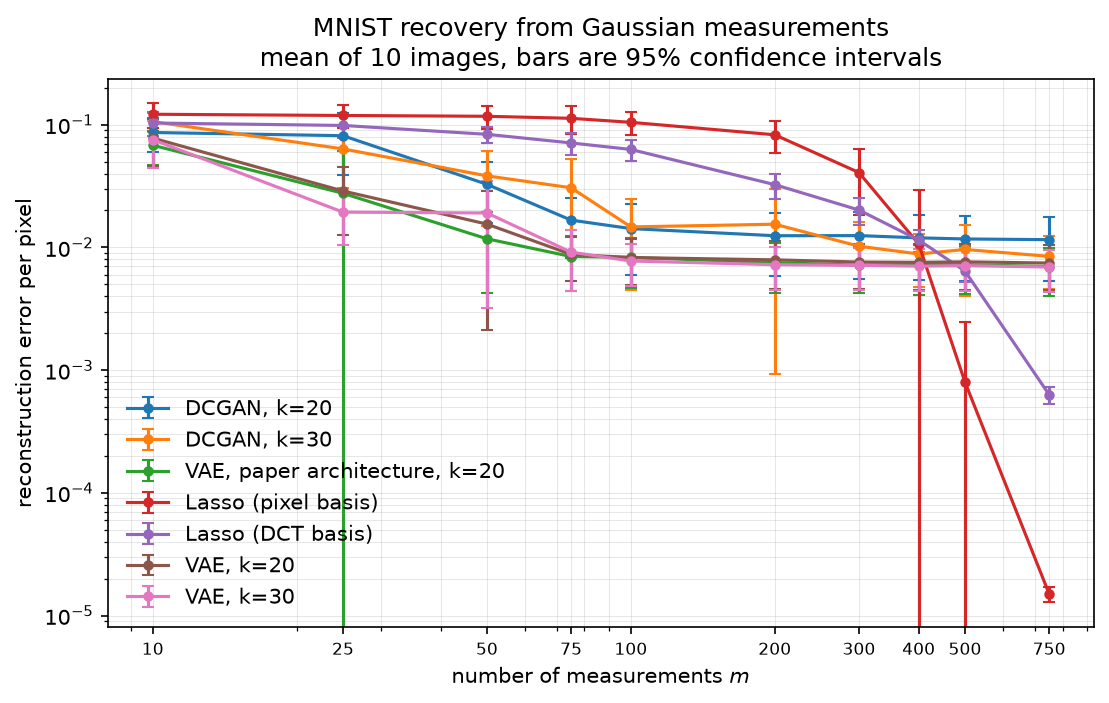
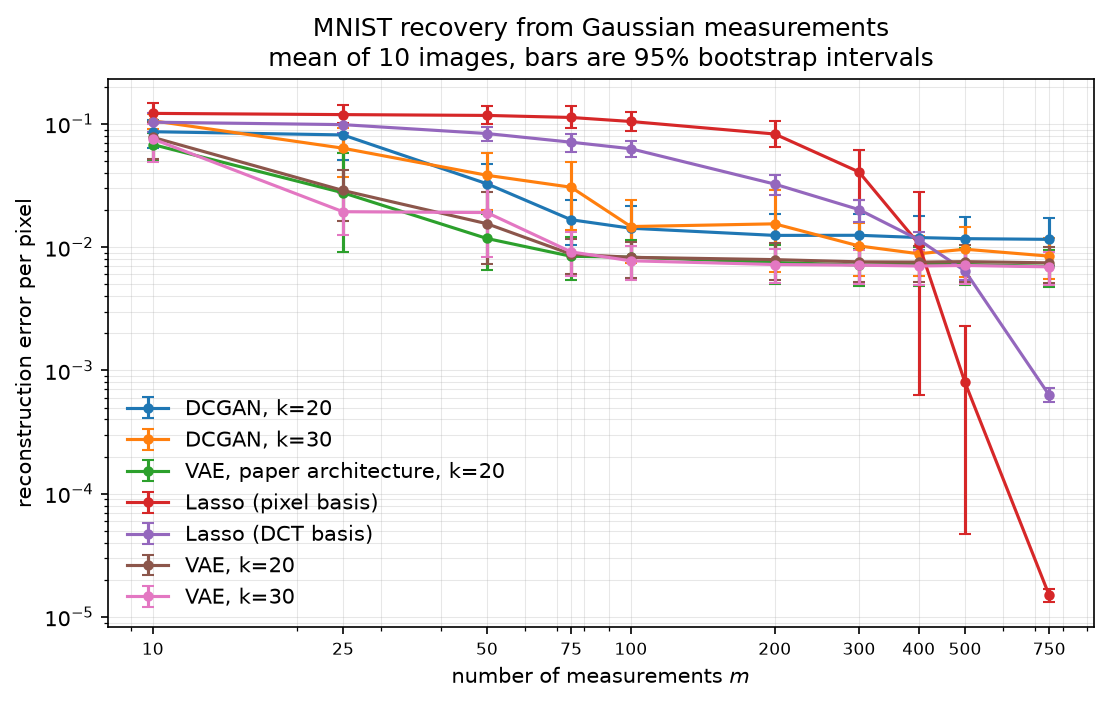
plot bootstrap intervals so no bar falls outside the error range

diff --git a/scripts/make_figures.py b/scripts/make_figures.py
@@ -14,7 +14,6 @@ from pathlib import Path
 
 import numpy as np
 import pandas as pd
-from scipy.stats import t as student_t
 
 from csgm.config import FIGURES_DIR, IMAGE_SHAPE, N_PIXELS, RESULTS_DIR
 from csgm.viz import plot_error_curves, save_figure
@@ -45,6 +44,27 @@ def parse_args() -> argparse.Namespace:
     return parser.parse_args()
 
 
+def bootstrap_interval(
+    values: np.ndarray, *, seed: int, draws: int = 10_000, level: float = 0.95
+) -> tuple[float, float]:
+    """Percentile bootstrap interval for the mean of ``values``.
+
+    Args:
+        values: Per-image errors at one budget.
+        seed: Seed of the resampling, so the figure is reproducible.
+        draws: Number of bootstrap resamples.
+        level: Coverage of the interval.
+
+    Returns:
+        The lower and upper ends, both non-negative because every resample mean
+        of non-negative values is non-negative.
+    """
+    rng = np.random.default_rng(seed)
+    resampled = rng.choice(values, size=(draws, len(values)), replace=True).mean(axis=1)
+    tail = (1.0 - level) / 2
+    return tuple(np.quantile(resampled, [tail, 1.0 - tail]))
+
+
 def error_curves(df: pd.DataFrame, figures_dir: Path) -> Path:
     """Plot mean per-pixel error against the measurement budget.
 
@@ -56,18 +76,29 @@ def error_curves(df: pd.DataFrame, figures_dir: Path) -> Path:
         Path of the written figure.
     """
     # The reference paper plots 95% confidence intervals, so the bars here are
-    # the same quantity. With ten images the normal multiplier is too optimistic,
-    # so the interval uses Student's t. The bars describe image-to-image spread
+    # the same quantity, but not by the same route. A symmetric interval around
+    # the mean assumes the mean is approximately normal, which ten strongly
+    # skewed per-image errors do not deliver: at three points the lower end falls
+    # below zero, outside the domain of a squared error and off a logarithmic
+    # axis entirely. The percentile bootstrap stays inside the domain and shows
+    # the asymmetry instead of hiding it. The bars describe image-to-image spread
     # at one measurement matrix, not the spread over matrices.
     n_images = df["image"].nunique()
-    multiplier = float(student_t.ppf(0.975, n_images - 1))
 
     curves, errorbars = {}, {}
     for method, group in df.groupby("method", sort=False):
-        stats = group.groupby("m")["per_pixel_error"].agg(["mean", "sem"]).sort_index()
         label = LABELS.get(method, method)
-        curves[label] = (stats.index.to_numpy(), stats["mean"].to_numpy())
-        errorbars[label] = np.nan_to_num(stats["sem"].to_numpy()) * multiplier
+        budgets, means, lower, upper = [], [], [], []
+        for m, per_image in group.groupby("m")["per_pixel_error"]:
+            values = per_image.to_numpy()
+            mean = float(values.mean())
+            low, high = bootstrap_interval(values, seed=int(m))
+            budgets.append(m)
+            means.append(mean)
+            lower.append(max(mean - low, 0.0))
+            upper.append(max(high - mean, 0.0))
+        curves[label] = (np.asarray(budgets), np.asarray(means))
+        errorbars[label] = np.vstack([lower, upper])
 
     fig = plot_error_curves(
         curves,
@@ -75,7 +106,7 @@ def error_curves(df: pd.DataFrame, figures_dir: Path) -> Path:
         logx=True,
         title=(
             f"MNIST recovery from Gaussian measurements\n"
-            f"mean of {n_images} images, bars are 95% confidence intervals"
+            f"mean of {n_images} images, bars are 95% bootstrap intervals"
         ),
     )
     return save_figure(fig, figures_dir / "error_vs_measurements.png")

diff --git a/docs/report/results.tex b/docs/report/results.tex
@@ -56,7 +56,7 @@ Table \ref{tab:results} and figure \ref{fig:error vs measurements} report the er
 \begin{figure}[H]
     \centering
     \includegraphics[width=1\linewidth]{assets/error_vs_measurements.png}
-    \caption{Error per pixel as a function of the number of measurements \( M \). Bars are 95\% normal-theory confidence intervals over the ten test images, from Student's \( t \) distribution, shown for comparability with figure 1 of \cite{bora2017}. The significance tests in section 6.5 do not assume normality; the bars are an illustration of spread and the tests are the inference. Both axes are logarithmic.}
+    \caption{Error per pixel as a function of the number of measurements \( M \). Bars are 95\% percentile bootstrap intervals for the mean over the ten test images, from ten thousand resamples. \cite{bora2017} plot normal-theory intervals in their figure 1; a symmetric interval assumes the mean of ten strongly skewed errors is approximately normal, and at three points it puts the lower end below zero, outside the range a squared error can take. The bootstrap interval stays inside that range and shows the asymmetry. The significance tests in section 6.5 do not assume normality either; the bars are an illustration of spread and the tests are the inference. Both axes are logarithmic.}
     \label{fig:error vs measurements}
 \end{figure}
 

diff --git a/src/csgm/viz.py b/src/csgm/viz.py
@@ -79,7 +79,9 @@ def plot_error_curves(
         logx: Use a logarithmic X axis. Budgets are spaced geometrically and the
             interesting regime is the small one, which a linear axis squeezes
             into the left edge.
-        errorbars: Optional mapping ``label -> half-width`` per point.
+        errorbars: Optional mapping ``label -> half-width`` per point, or to a
+            ``(2, n)`` array of distances below and above each point when the
+            interval is not symmetric.
 
     Returns:
         The created figure.

diff --git a/README.md b/README.md
@@ -493,9 +493,12 @@ which checkpoint was kept, and the reasoning is in
   DCGAN column produced by simply stopping the clock would have been noticeably
   weaker, which is worth knowing when comparing these numbers with a GAN result
   reported without a selection rule.
-- **The error bars describe image-to-image spread.** One measurement matrix is
-  drawn per budget, so the intervals say nothing about how much the curves would
-  move under a different draw of `A`.
+- **The error bars describe image-to-image spread.** They are percentile
+  bootstrap intervals for the mean, which stay inside the range a squared error
+  can take; a symmetric interval falls below zero at three of the seventy
+  points, since ten per-image errors are far from normal. One measurement matrix
+  is drawn per budget, so the intervals say nothing about how much the curves
+  would move under a different draw of `A`.
 
 ## References
 
